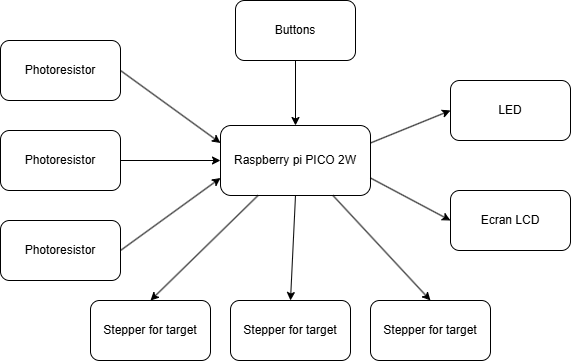
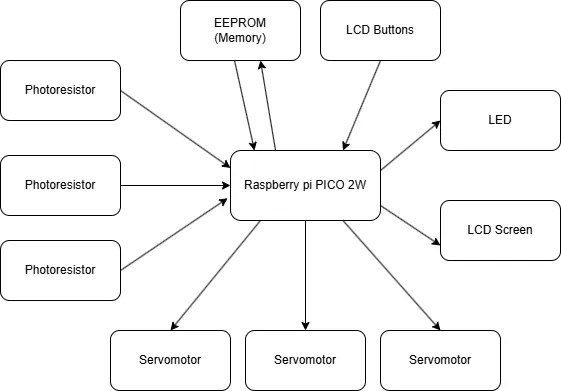
Updated the documentation and added photos of the device.

diff --git a/website/versioned_docs/version-acs_cc/project/2025/eugen_andrei.echim/index.md b/website/versioned_docs/version-acs_cc/project/2025/eugen_andrei.echim/index.md
@@ -19,13 +19,12 @@ Laser tag and arcade shooting games are widely popular and engaging. This projec
 
 ## Architecture
 
--   Raspberry Pi Pico 2W x2 - One reads sensor input, controls servo motors, and handles game logic and the other is used for debugging.
--   Photoresistors (LDRs) - Detect laser light intensity. Connected via voltage divider circuits to ADC pins on the Pico.
--   Push Buttons - Used for game control (reset, start game, type name, stop game).
--   Stepper Motors - Physically raise and lower targets. Driven using motor driver modules connected to GPIO pins.
--   Green LED - Flashes when target is hit. Connected to GPIO pin with a current-limiting resistor.
--   LCD Display - Shows current score and possibly additional messages. Connected via I2C interface to Pico 2W
--   Buttons - Used to write score name on LCD. Connected to digital input pins with pull-down or pull-up resistors
+-   **Raspberry Pi Pico W x2** – One handles sensor input, servo control, and game logic; the other is used for debugging and serial logging.
+-   **Photoresistors (LDRs) x3** – Detect laser light intensity. Connected via voltage divider circuits to ADC pins on the Pico.
+-   **Servomotors x3** – Physically raise and lower the game targets.
+-   **Green LED** – Flashes when a target is hit. Connected to a GPIO pin with a current-limiting resistor.
+-   **LCD Display with button shield** – Displays the game menu, current score, and leaderboard. The buttons allow user navigation through the interface.
+-   **EEPROM Memory** – Stores the top 5 leaderboard scores persistently, even after power loss.
 
 ![diagram](Diagrama.webp)
 
@@ -33,7 +32,12 @@ Laser tag and arcade shooting games are widely popular and engaging. This projec
 
 ### Week 5 - 11 May
 
+-   Created the initial documentation.
+-   Researched suitable hardware components for the project and placed the necessary orders.
+
 ### Week 12 - 18 May
+
+-   Assembled the hardware setup and started writing the initial part of the code.
 
 ### Week 19 - 25 May
 
@@ -41,62 +45,79 @@ Laser tag and arcade shooting games are widely popular and engaging. This projec
 
 **Raspberry Pi Pico 2W**
 
--   **Purpose:** Controls all components
--   **Function:** Coordinates operations of sensors, motors, and LCD display
+-   **Purpose:** Main control units
+-   **Function:** One Pico manages all core components: sensors, servomotors, LCD display, EEPROM memory, and the LED. The second is used for debugging and system monitoring.
 
 **Photoresistors (LDRs)**
 
--   **Purpose:** Detect laser hits
--   **Function:** Monitor light intensity
+-   **Purpose:** Laser hit detection
+-   **Function:** Measure ambient light intensity to detect when a laser beam hits the target.
 
-**Stepper Motors**
+**Servomotors**
 
--   **Purpose:** Raise/lower targets
--   **Function:** Trigger movement upon hit detection
+-   **Purpose:** Target movement
+-   **Function:** Raise and lower physical targets based on game logic.
 
-**Push Buttons**
+**Push Buttons (on LCD shield)**
 
--   **Purpose:** User interface
--   **Function:** Write score name, reset game
+-   **Purpose:** User interaction
+-   **Function:** Allow the player to navigate menus, input initials for scores, and reset the game.
 
 **Green LED**
 
--   **Purpose:** Visual hit feedback
--   **Function:** Blink on hit detection
+-   **Purpose:** Visual feedback
+-   **Function:** Flashes to indicate a successful hit.
 
 **LCD Display**
 
--   **Purpose:** Show score and interface
--   **Function:** Real-time game info
+-   **Purpose:** Game interface
+-   **Function:** Displays game logic, score, and leaderboard. Buttons provide menu navigation.
+
+**EEPROM Memory**
+
+-   **Purpose:** Persistent score storage
+-   **Function:** Saves the top 5 high scores along with player initials, ensuring data is retained across power cycles.
 
 ### Schematics
 
 ![Schematic](Schema_Kicad.webp)
 
+### Photos of the device
+
+![Photo1](Photo1.webp)
+![Photo2](Photo2.webp)
+
 ### Bill of Materials
 
-| Device               | Usage                 | Price |
-| -------------------- | --------------------- | ----- |
-| Raspberry Pi Pico 2W | Main microcontrollers | 39.66 |
-| Stepper Motors       | Target actuation      | 16.97 |
-| LDR                  | Detects laser light   | 9.60  |
-| LCD Display          | LCD for score         | 23.99 |
-| Resistor 220 ohm     | For LED               | 0.07  |
-| Push Buttons         | For LCD navigation    | 0.37  |
-| Breadboard           | Circuit prototyping   | 9.98  |
-| Jumper wires         | Circuit connections   | 0.37  |
-| LED Green            | Visual feedback       | 0.39  |
-| Cardboard/Wood       | Target construction   | -     |
+| Device                                            | Usage                                       | Price |
+| ------------------------------------------------- | ------------------------------------------- | ----- |
+| [Raspberry Pi Pico 2W](https://shorturl.at/lTGLQ) | Main microcontrollers for logic and control | 39.66 |
+| [Servomotors](https://shorturl.at/g2V5g)          | Physically raise and lower the targets      | 11.99 |
+| [LDR](https://shorturl.at/sYUWR)                  | Detect laser light intensity on targets     | 3.20  |
+| [LCD Display](https://shorturl.at/TeJtM)          | Display game logic, score, and menu         | 21.69 |
+| [EEPROM Memory](https://shorturl.at/uKPkF)        | Store top 5 scores with player initials     | 8.99  |
+| [Resistors](https://tinyurl.com/37tb2s9j)         | Used in voltage dividers and LED circuit    | 14.91 |
+| [Breadboard](https://tinyurl.com/ec36tzht)        | Prototyping and testing the circuit         | 6.38  |
+| [Wires](https://tinyurl.com/3z9e5ndt)             | Connect components on breadboard            | 5.99  |
+| [LED Green](https://tinyurl.com/y2wc5zda)         | Blinks on target hit as visual feedback     | 0.39  |
 
 ## Software
 
-| Library                                                                  | Description                             | Usage                                                 |
-| ------------------------------------------------------------------------ | --------------------------------------- | ----------------------------------------------------- |
-| [embassy-rp](https://github.com/embassy-rs/embassy/tree/main/embassy-rp) | RP2040 Peripherals                      | Used for accessing the peripherals with async support |
-| [rp2040-hal](https://github.com/rp-rs/rp-hal)                            | Raspberry Pi Pico HAL                   | Low-level peripheral access                           |
-| [embedded-hal](https://github.com/rust-embedded/embedded-hal)            | Abstraction traits for embedded devices | Used for writing generic driver code                  |
-| [lcd1602](https://crates.io/crates/lcd1602-rs)                           | LCD Display via I2C                     | To display the score and messages on the LCD          |
-| [stepper](https://crates.io/crates/stepper)                              | Stepper motor control                   | Used to raise and lower targets                       |
+| Library                                                                  | Description                                     | Usage                                                    |
+| ------------------------------------------------------------------------ | ----------------------------------------------- | -------------------------------------------------------- |
+| [embassy-rp](https://github.com/embassy-rs/embassy/tree/main/embassy-rp) | Async runtime and drivers for RP2040            | Used to interface with RP2040 peripherals asynchronously |
+| [embedded-hal](https://github.com/rust-embedded/embedded-hal)            | Traits for embedded hardware abstraction        | Used to write platform-independent drivers               |
+| [embedded-executor](https://github.com/embassy-rs/embassy)               | Async task executor for embedded systems        | Provides async task scheduling in `no_std` environments  |
+| [embedded-time](https://github.com/embedded-time/embedded-time)          | Timekeeping and duration types for embedded use | Used for expressing delays and time durations            |
+| [fixed](https://github.com/aldanor/fixed)                                | Fixed point arithmetic support                  | Used for precise fractional calculations (if needed)     |
+| [hd44780-driver](https://crates.io/crates/hd44780-driver)                | Driver for HD44780 compatible LCDs              | Used to display scores and messages on the LCD           |
+| [eeprom24x](https://crates.io/crates/eeprom24x)                          | Driver for 24x-series I2C EEPROM chips          | Used to store and read leaderboard scores persistently   |
+| [defmt](https://crates.io/crates/defmt)                                  | Logging framework optimized for embedded        | Used for efficient debug logging                         |
+| [defmt-rtt](https://crates.io/crates/defmt-rtt)                          | RTT (Real-Time Transfer) transport for defmt    | Used to output defmt logs via RTT                        |
+| [panic-probe](https://crates.io/crates/panic-probe)                      | Panic handler for embedded with defmt support   | Used to display panic messages during development        |
+| [itoa](https://crates.io/crates/itoa)                                    | Fast integer to string conversion               | Used to convert integers to strings for display          |
+| [core::fmt](https://doc.rust-lang.org/core/fmt/index.html)               | Rust core formatting module                     | Used to format text for display (e.g. score lines)       |
+| [heapless](https://crates.io/crates/heapless)                            | Data structures without dynamic allocation      | Used for string buffers and fixed-size arrays            |
 
 ## Links
 
